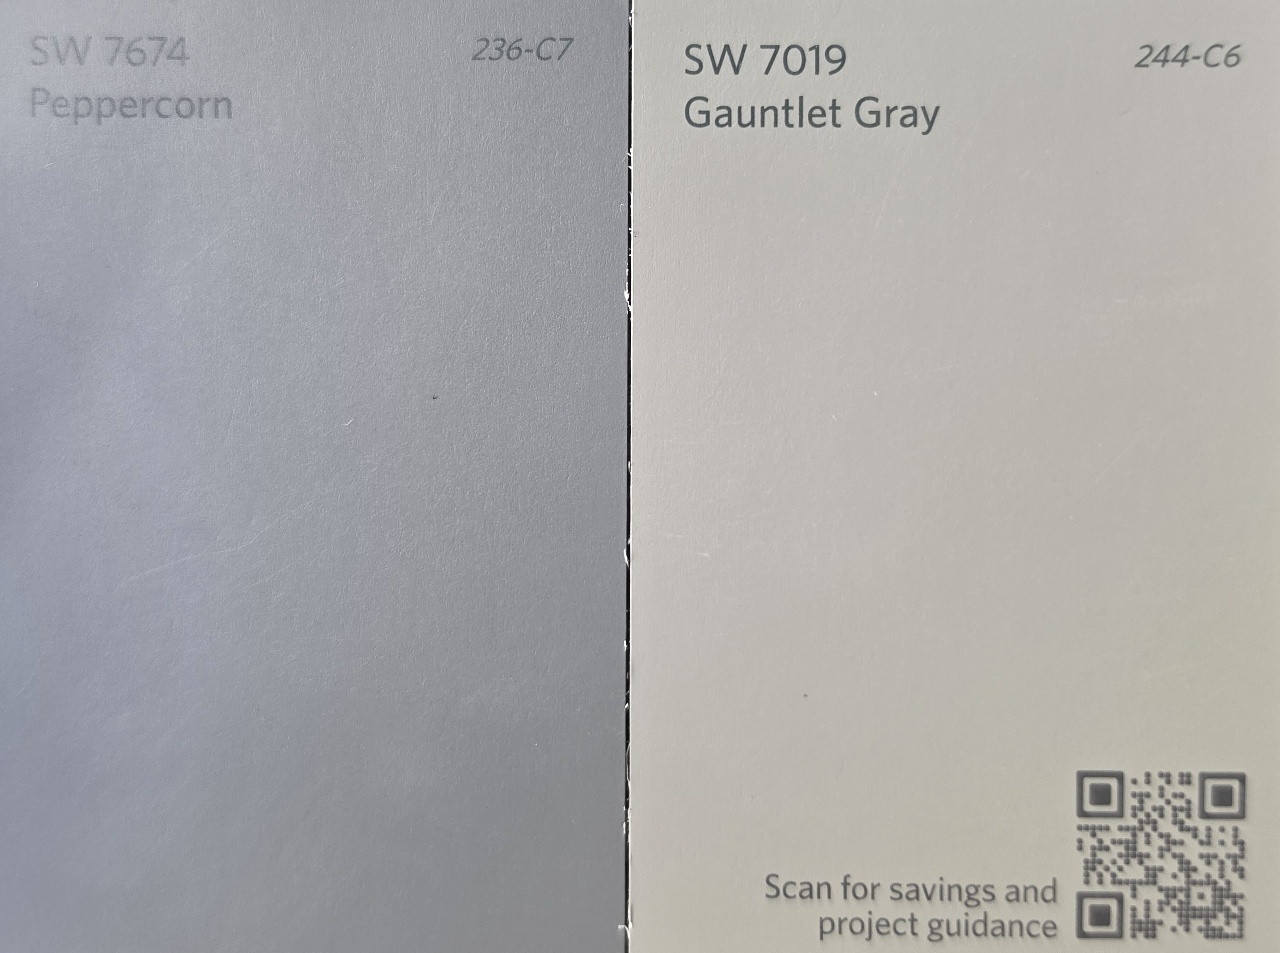
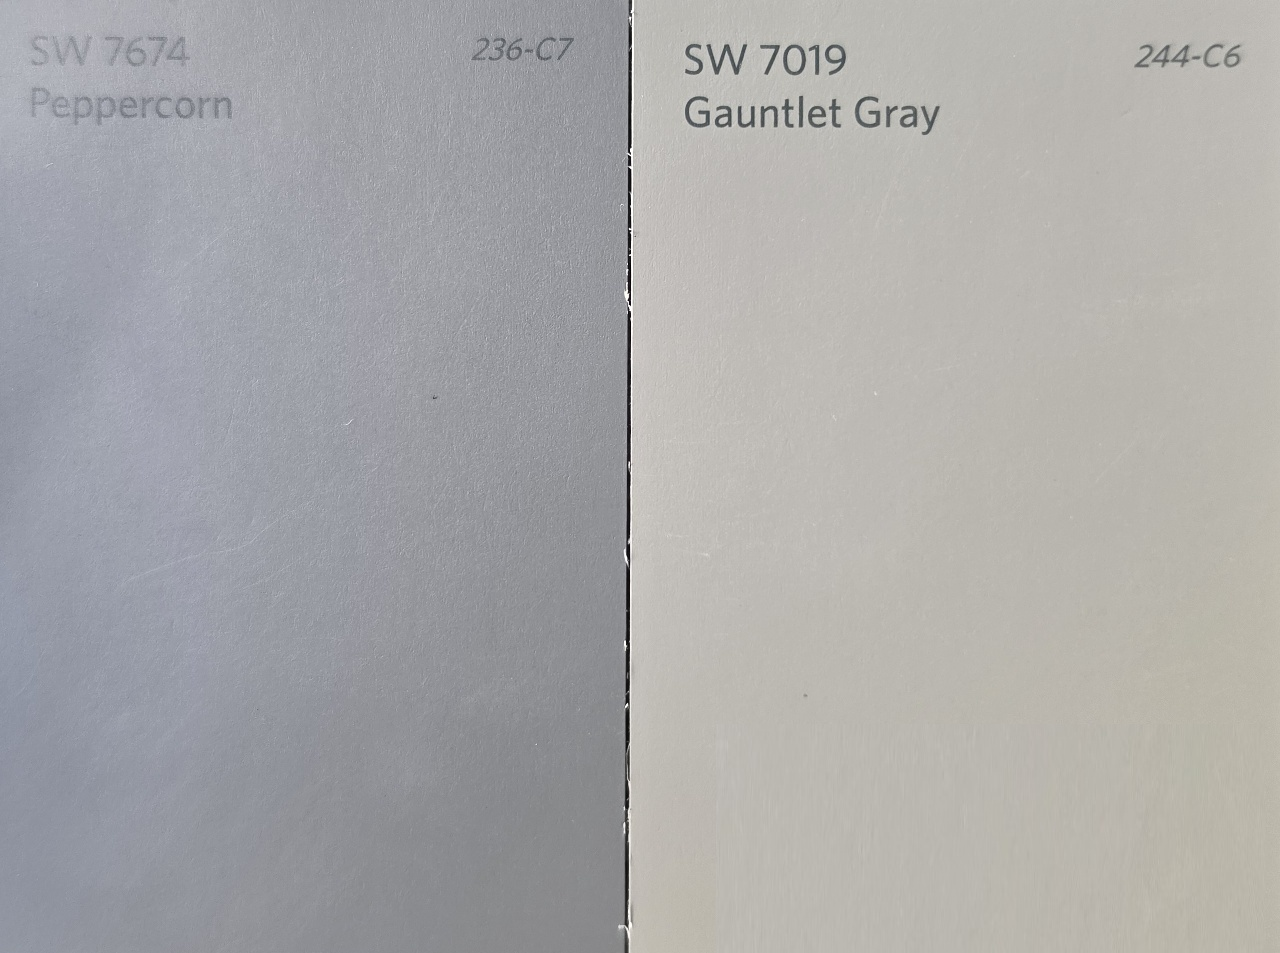
Reel tinta: amostras sem QR code; print da tela das amostras
Claude-Session: https://claude.ai/code/session_01GEqWFq3NTXN543RqEimKHj

Changed region(s): [[0.5938, 0.7912, 1.0, 1.0]]

diff --git a/marketing/discoveryremodeling/obra-953/prompt-reel-tinta.md b/marketing/discoveryremodeling/obra-953/prompt-reel-tinta.md
@@ -13,7 +13,7 @@ Montagem:
 3) 3 s com a foto das 2 amostras (centralizada, fundo verde-escuro #17361A): etiqueta "1" grande sobre a da esquerda (Peppercorn, mais escura) e "2" sobre a da direita (Gauntlet Gray, mais clara).
 4) Final 3 s: "Comenta 1 ou 2 👇 · logo a gente mostra a escolhida" + reveal.
 Gancho 1º segundo: "Qual tom de cinza? 🎨". Não use o trecho em que ele diz "não sei se vai dar pra ter ideia" nem o "deixa eu só virar a câmera".
-ANTES DE SALVAR: duração e 2 prints (gancho e tela dividida). ENTREGA em "Reels Semana Vendas" até sexta 06/11 à noite. Não apague nada.
+ANTES DE SALVAR: duração e 2 prints (gancho e tela das amostras). ENTREGA em "Reels Semana Vendas" até sexta 06/11 à noite. Não apague nada.
 ```
 
 Legenda do post:
